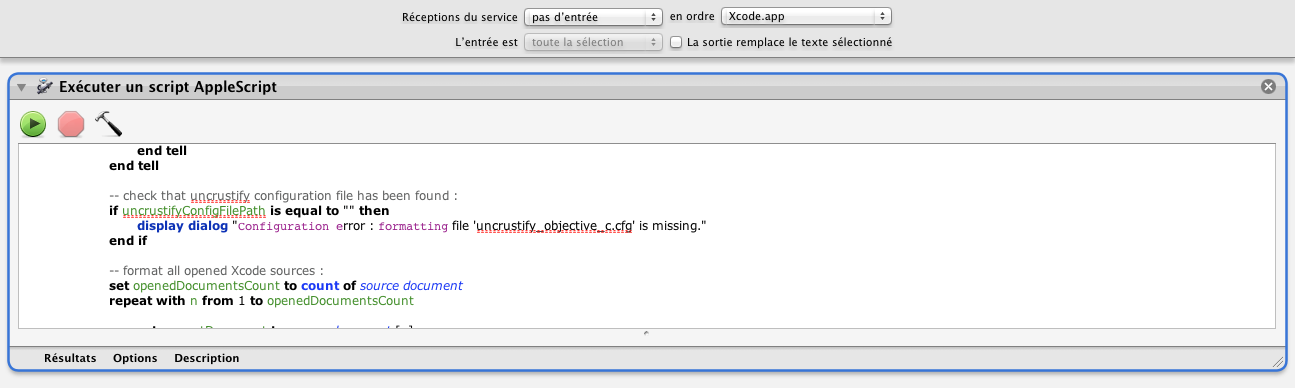
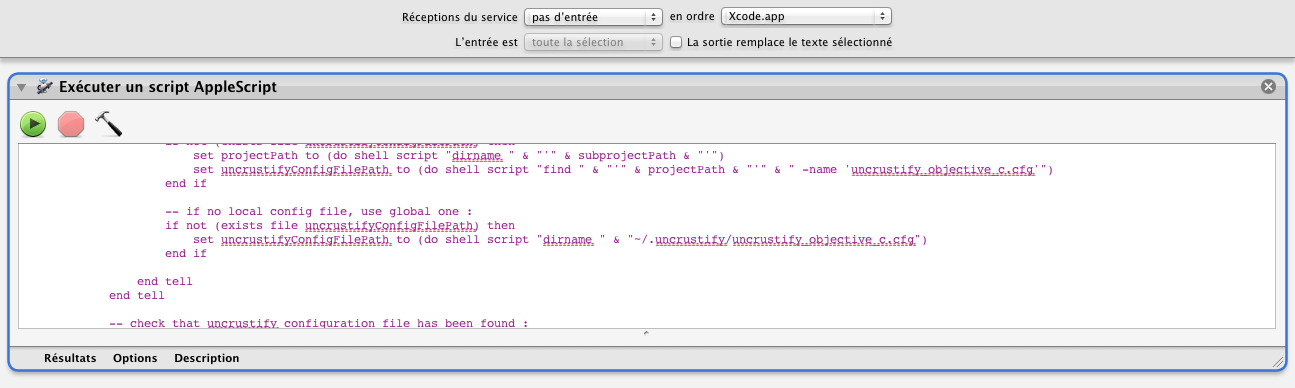
global configuration file can be used

diff --git a/README.md b/README.md
@@ -127,3 +127,6 @@ Until a new version of uncrustify fixes this issue, you can use the old way with
 	                                                                       @"blue", @3, 
 	                                                                       nil];
 
+### I want to have a single configuration file for all my Xcode projects, is it possible?
+
+Yes, everything is possible. Just move your configuration file to your home directory: '~/.uncrustify//uncrustify\_objective\_c.cfg'. If the configuration file is not found in project directory, this global file is used.
